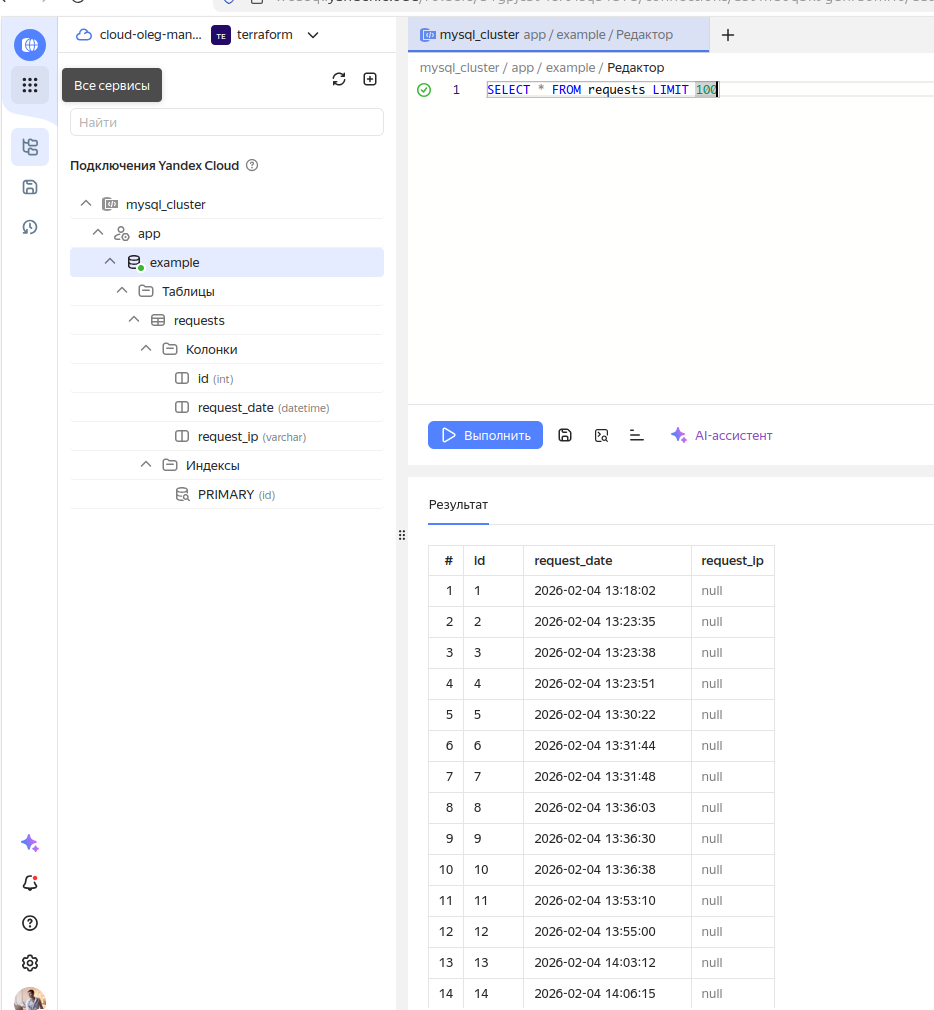
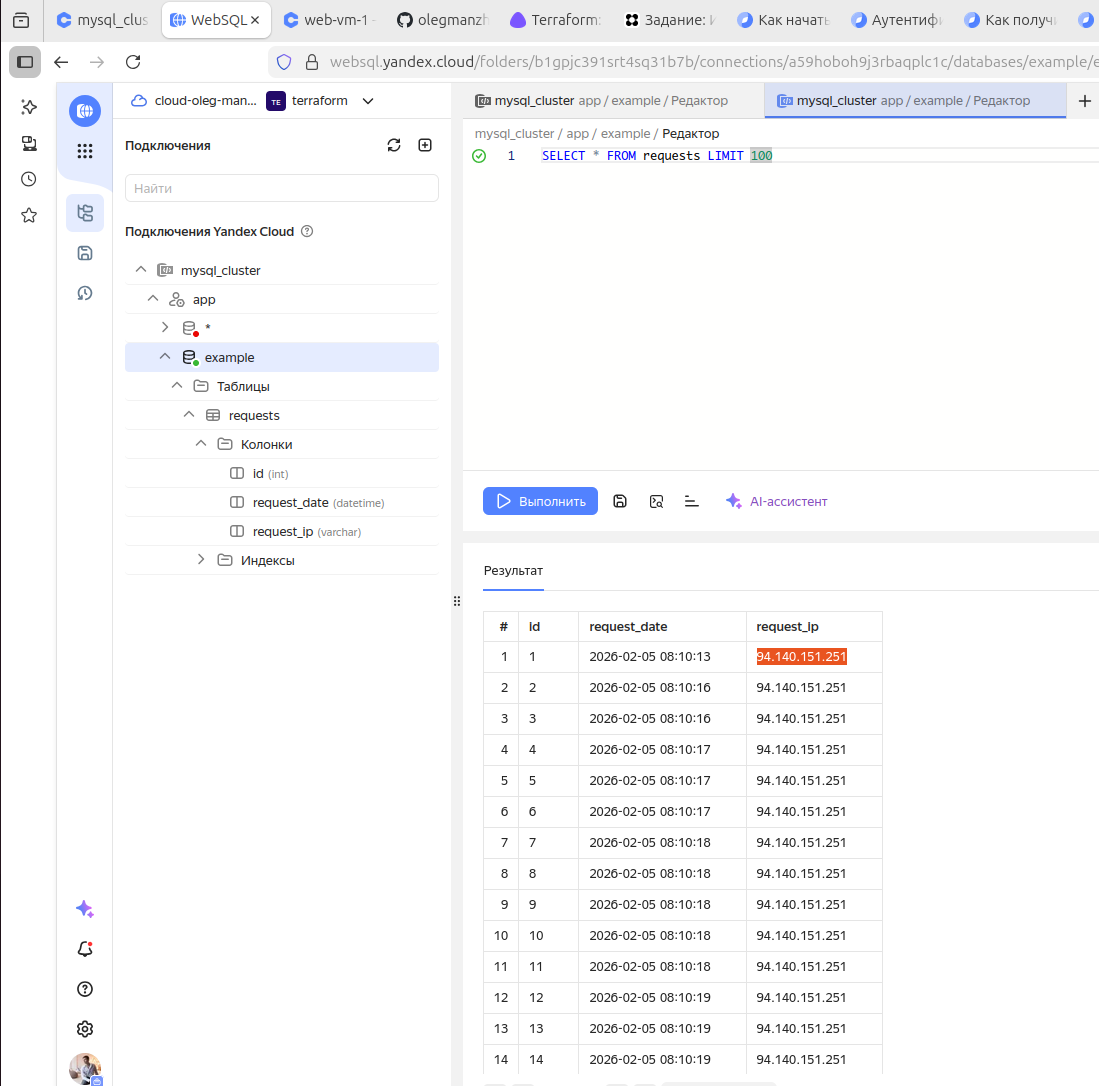
terraform итоговый модуль

diff --git a/project/README.md b/project/README.md
@@ -21,50 +21,105 @@ https://github.com/olegmanzhay/ter-homeworks/blob/terraform-05/project/modules/v
 
 
 Задание 4.
----------------------------------------------------------------------------------------------------------------------------------------------------Завяжите работу приложения в контейнере на БД в Yandex Cloud.  
+---------------------------------------------------------------------------------------------------------------------------------------------------Завяжите работу приложения в контейнере на БД в Yandex Cloud.    
+
+
+Прериквизиты: 
+ip VM: 93.77.180.112  
+ip DB: rc1a-3i8ofgkbtphk5qfd.mdb.yandexcloud.net  
+
+Результат  
+
+```
+admin-oleg@admin-oleg-VMware-Virtual-Platform:~/Desktop/Netology/ter-homeworks/project/modules/vms/example$ curl -v http://93.77.180.112:8090/
+*   Trying 93.77.180.112:8090...
+* Connected to 93.77.180.112 (93.77.180.112) port 8090
+> GET / HTTP/1.1
+> Host: 93.77.180.112:8090
+> User-Agent: curl/8.5.0
+> Accept: */*
+> 
+< HTTP/1.1 200 OK
+< Server: nginx/1.29.4
+< Date: Thu, 05 Feb 2026 08:10:22 GMT
+< Content-Type: application/json
+< Content-Length: 47
+< Connection: keep-alive
+< 
+* Connection #0 to host 93.77.180.112 left intact
+"TIME: 2026-02-05 08:10:22, IP: 94.140.151.251"
+```
 ![Mysql](images/db.png)
 
-ловлю следующую ошибку при прокидывании порта 8090 ВМ на контейнер
-```
-docker run -d   -p 8090:8090   -e DB_HOST=rc1a-flft5ubbf3qol693.mdb.yandexcloud.net   --name my-app   a3fff29b58be
[1 lines of base64/hex data omitted]
-ubuntu@fhm8e0j0u10i81em9eqb:~$ curl -v http://localhost:8090
-*   Trying 127.0.0.1:8090...
-* Connected to localhost (127.0.0.1) port 8090 (#0)
-> GET / HTTP/1.1
-> Host: localhost:8090
-> User-Agent: curl/7.81.0
-> Accept: */*
-> 
-* Recv failure: Connection reset by peer
-* Closing connection 0
-curl: (56) Recv failure: Connection reset by peer
-```  
 
-При этом если прокинуть 8090 на 5000   
-
-```
-ubuntu@fhm8e0j0u10i81em9eqb:~$ docker run -d   -p 8090:5000   -e DB_HOST=rc1a-flft5ubbf3qol693.mdb.yandexcloud.net   --name my-app   a3fff29b58be
[1 lines of base64/hex data omitted]
-ubuntu@fhm8e0j0u10i81em9eqb:~$ curl -v http://localhost:8090
-*   Trying 127.0.0.1:8090...
-* Connected to localhost (127.0.0.1) port 8090 (#0)
-> GET / HTTP/1.1
-> Host: localhost:8090
-> User-Agent: curl/7.81.0
-> Accept: */*
-> 
-* Mark bundle as not supporting multiuse
-< HTTP/1.1 200 OK
-< date: Wed, 04 Feb 2026 14:23:27 GMT
-< server: uvicorn
-< content-length: 278
-< content-type: application/json
-< 
-* Connection #0 to host localhost left intact
-"TIME: 2026-02-04 14:23:28, IP: похоже, что вы направляете запрос в неверный порт(например curl http://127.0.0.1:5000). Правильное выполнение задания - отправить запрос в порт 8090."
-```
-
+Документация по работе   
 https://yandex.cloud/ru/docs/cli/quickstart#install
 https://yandex.cloud/ru/docs/container-registry/operations/docker-image/docker-image-pull
 https://yandex.cloud/ru/docs/terraform/resources/container_registry
+
+-------------------------------------------------------------------------
+Выполненные этапы:
+
+-------------------------------------------------------------------------
+Для загрузки образов в контейнер регистри
+crp7h6sd8aeq2d7fbugb
+```
+docker tag nginx cr.yandex/crp7h6sd8aeq2d7fbugb/nginx:latest
+docker tag haproxy cr.yandex/crp7h6sd8aeq2d7fbugb/haproxy:2.4
+docker tag web cr.yandex/crp7h6sd8aeq2d7fbugb/web:1.0.0
+
+docker push cr.yandex/crp7h6sd8aeq2d7fbugb/nginx:latest
+docker push cr.yandex/crp7h6sd8aeq2d7fbugb/haproxy:2.4
+docker push cr.yandex/crp7h6sd8aeq2d7fbugb/web:1.0.0
+```
+-------------------------------------------------------------------------
+
+Установка yc
+```
+curl -sSL https://storage.yandexcloud.net/yandexcloud-yc/install.sh | bash
+exec -l $SHELL
+yc init
+yc config list
+
+
+echo <token>|docker login \
+  --username oauth \
+  --password-stdin \
+ cr.yandex
+```
+-------------------------------------------------------------------------
+
+Скачать образы на ВМ из контейнер регистри
+```
+yc container image list
+docker pull cr.yandex/crp7h6sd8aeq2d7fbugb/web:1.0.0
+docker pull cr.yandex/crp7h6sd8aeq2d7fbugb/nginx:latest
+docker pull cr.yandex/crp7h6sd8aeq2d7fbugb/haproxy:2.4
+```
+-------------------------------------------------------------------------
+Подключиться к БД
+```
+mkdir -p ~/.mysql && \
+wget "https://storage.yandexcloud.net/cloud-certs/CA.pem" \
+   --output-document ~/.mysql/root.crt && \
+chmod 0600 ~/.mysql/root.crt
+
+sudo apt update && sudo apt install --yes mysql-client
+
+mysql --host=rc1a-3i8ofgkbtphk5qfd.mdb.yandexcloud.net \
+      --port=3306 \
+      --ssl-ca=~/.mysql/root.crt \
+      --ssl-mode=VERIFY_IDENTITY \
+      --user=app \
+      --password= \
+      example
+
+В БД выдал гранты, при этом сначала выдал пользавателю app права админа БД (может быть дальше и не нужно было выдавать гранты)
+GRANT ALL PRIVILEGES ON example.* TO 'app'@'%';
+FLUSH PRIVILEGES;
+```
+
+Выполнил корректировку env, для прокидывания fqdn DB
+Выполнил curl со своей локальной машины до хоста тачки в клауде 
+
+-------------------------------------------------------------------------
